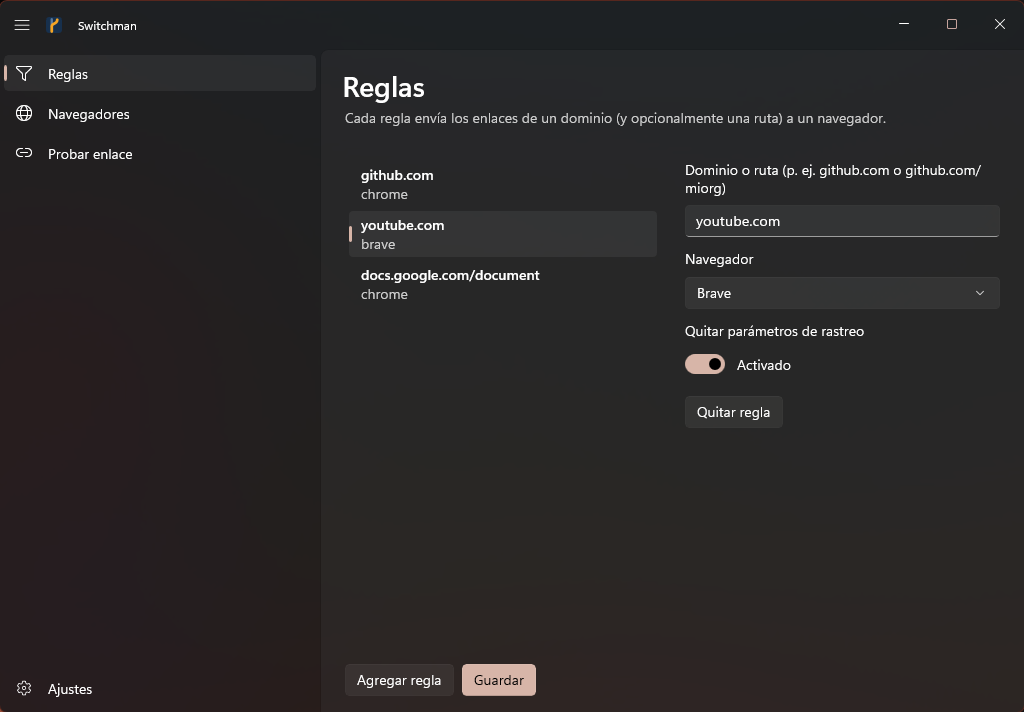
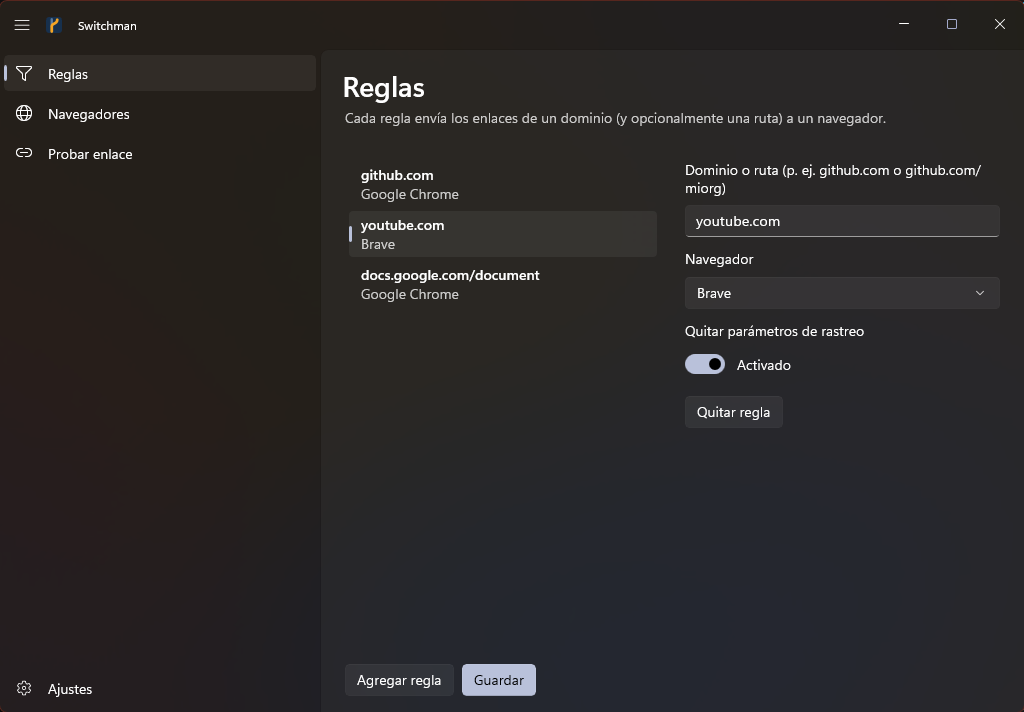
Reglas: nombre visible del navegador y aviso en reglas sin dominio
La lista mostraba el id interno ("helium") y, en una regla nueva, una línea
vacía. Ahora muestra el nombre ("Helium"), que se actualiza al cambiar el
navegador, y "Nueva regla: escribe un dominio" mientras el dominio esté vacío.
Los navegadores se cargan antes que las reglas. Captura del README actualizada.

diff --git a/ui/src/Switchman.App/Pages/RulesPage.xaml b/ui/src/Switchman.App/Pages/RulesPage.xaml
@@ -35,8 +35,8 @@
                 <ListView.ItemTemplate>
                     <DataTemplate x:DataType="vm:RuleItem">
                         <StackPanel Padding="0,6">
-                            <TextBlock Text="{x:Bind Pattern, Mode=OneWay}" Style="{StaticResource BodyStrongTextBlockStyle}"/>
-                            <TextBlock Text="{x:Bind BrowserId, Mode=OneWay}" Foreground="{ThemeResource TextFillColorSecondaryBrush}"/>
+                            <TextBlock Text="{x:Bind Title, Mode=OneWay}" Style="{StaticResource BodyStrongTextBlockStyle}"/>
+                            <TextBlock Text="{x:Bind BrowserName, Mode=OneWay}" Foreground="{ThemeResource TextFillColorSecondaryBrush}"/>
                         </StackPanel>
                     </DataTemplate>
                 </ListView.ItemTemplate>

diff --git a/ui/src/Switchman.Core/ViewModels/RulesViewModel.cs b/ui/src/Switchman.Core/ViewModels/RulesViewModel.cs
@@ -34,9 +34,14 @@ public sealed partial class RulesViewModel(ConfigSession session, ICliClient cli
         Rules.Clear();
         foreach (var rule in (_session.Current?.Config ?? LinkConfig.Empty).Rules)
         {
-            Rules.Add(RuleItem.From(rule));
+            var item = RuleItem.From(rule);
+            item.NameLookup = NameOf;
+            Rules.Add(item);
         }
     }
+
+    /// <summary>Nombre visible de un navegador detectado; si no está, el id tal cual.</summary>
+    private string NameOf(string? id) => Browsers.FirstOrDefault(b => b.Id == id)?.Name ?? id ?? "";
 
     /// <summary>Quita una regla de la lista (se aplica al guardar).</summary>
     [RelayCommand]
@@ -78,7 +83,7 @@ public sealed partial class RulesViewModel(ConfigSession session, ICliClient cli
         {
             browserId = Browsers[0].Id;
         }
-        var rule = new RuleItem { Id = NextId(), Pattern = "", BrowserId = browserId };
+        var rule = new RuleItem { Id = NextId(), Pattern = "", BrowserId = browserId, NameLookup = NameOf };
         Rules.Add(rule);
         SelectedRule = rule;
     }
@@ -101,13 +106,8 @@ public sealed partial class RulesViewModel(ConfigSession session, ICliClient cli
     [RelayCommand]
     private async Task LoadAsync(CancellationToken ct)
     {
-        var config = await _session.LoadAsync(ct).ConfigureAwait(true);
-        if (!config.IsOk)
-        {
-            Message = config.Error;
-        }
-        FillRules();
-
+        // Navegadores primero: así cada regla resuelve su nombre al crearse y los ComboBox nunca
+        // ven su lista vaciarse con una regla ya enlazada.
         var browsers = await _cli.DetectAsync(ct).ConfigureAwait(true);
         Browsers.Clear();
         if (browsers.IsOk)
@@ -121,5 +121,12 @@ public sealed partial class RulesViewModel(ConfigSession session, ICliClient cli
         {
             Message = browsers.Error;
         }
+
+        var config = await _session.LoadAsync(ct).ConfigureAwait(true);
+        if (!config.IsOk)
+        {
+            Message = config.Error;
+        }
+        FillRules();
     }
 }

diff --git a/ui/src/Switchman.Core/ViewModels/RuleItem.cs b/ui/src/Switchman.Core/ViewModels/RuleItem.cs
@@ -9,11 +9,34 @@ public sealed partial class RuleItem : ObservableObject
     public required string Id { get; init; }
 
     [ObservableProperty]
+    [NotifyPropertyChangedFor(nameof(Title))]
     public partial string Pattern { get; set; } = "";
 
     /// <summary>Nullable a propósito: el ComboBox escribe null cuando no hay selección.</summary>
     [ObservableProperty]
     public partial string? BrowserId { get; set; } = "";
+
+    /// <summary>Nombre visible del navegador ("Helium", no "helium").</summary>
+    [ObservableProperty]
+    public partial string BrowserName { get; set; } = "";
+
+    /// <summary>Texto de la lista: el dominio, o una indicación si todavía está vacío.</summary>
+    public string Title => string.IsNullOrWhiteSpace(Pattern) ? "Nueva regla: escribe un dominio" : Pattern;
+
+    /// <summary>Traduce id → nombre; la fija RulesViewModel, que conoce los navegadores detectados.</summary>
+    public Func<string?, string>? NameLookup
+    {
+        get;
+        set
+        {
+            field = value;
+            RefreshName();
+        }
+    }
+
+    partial void OnBrowserIdChanged(string? value) => RefreshName();
+
+    private void RefreshName() => BrowserName = NameLookup?.Invoke(BrowserId) ?? BrowserId ?? "";
 
     [ObservableProperty]
     public partial bool StripTracking { get; set; } = true;

diff --git a/ui/tests/Switchman.Tests/RulesViewModelTests.cs b/ui/tests/Switchman.Tests/RulesViewModelTests.cs
@@ -31,6 +31,23 @@ public sealed class RulesViewModelTests
     }
 
     [Fact]
+    public async Task ListShowsBrowserNamesAndPlaceholderForEmptyPattern()
+    {
+        var vm = Loaded();
+        await vm.LoadCommand.ExecuteAsync(null);
+
+        Assert.Equal("Google Chrome", vm.Rules[0].BrowserName);
+        Assert.Equal("edge", vm.Rules[1].BrowserName); // no detectado: se muestra el id
+        vm.Rules[1].BrowserId = "chrome";
+        Assert.Equal("Google Chrome", vm.Rules[1].BrowserName);
+
+        vm.AddRuleCommand.Execute(null);
+        Assert.Equal("Nueva regla: escribe un dominio", vm.Rules[2].Title);
+        vm.Rules[2].Pattern = "gitlab.com";
+        Assert.Equal("gitlab.com", vm.Rules[2].Title);
+    }
+
+    [Fact]
     public async Task AddRuleUsesNextIdAndDefaultBrowser()
     {
         var vm = Loaded();
